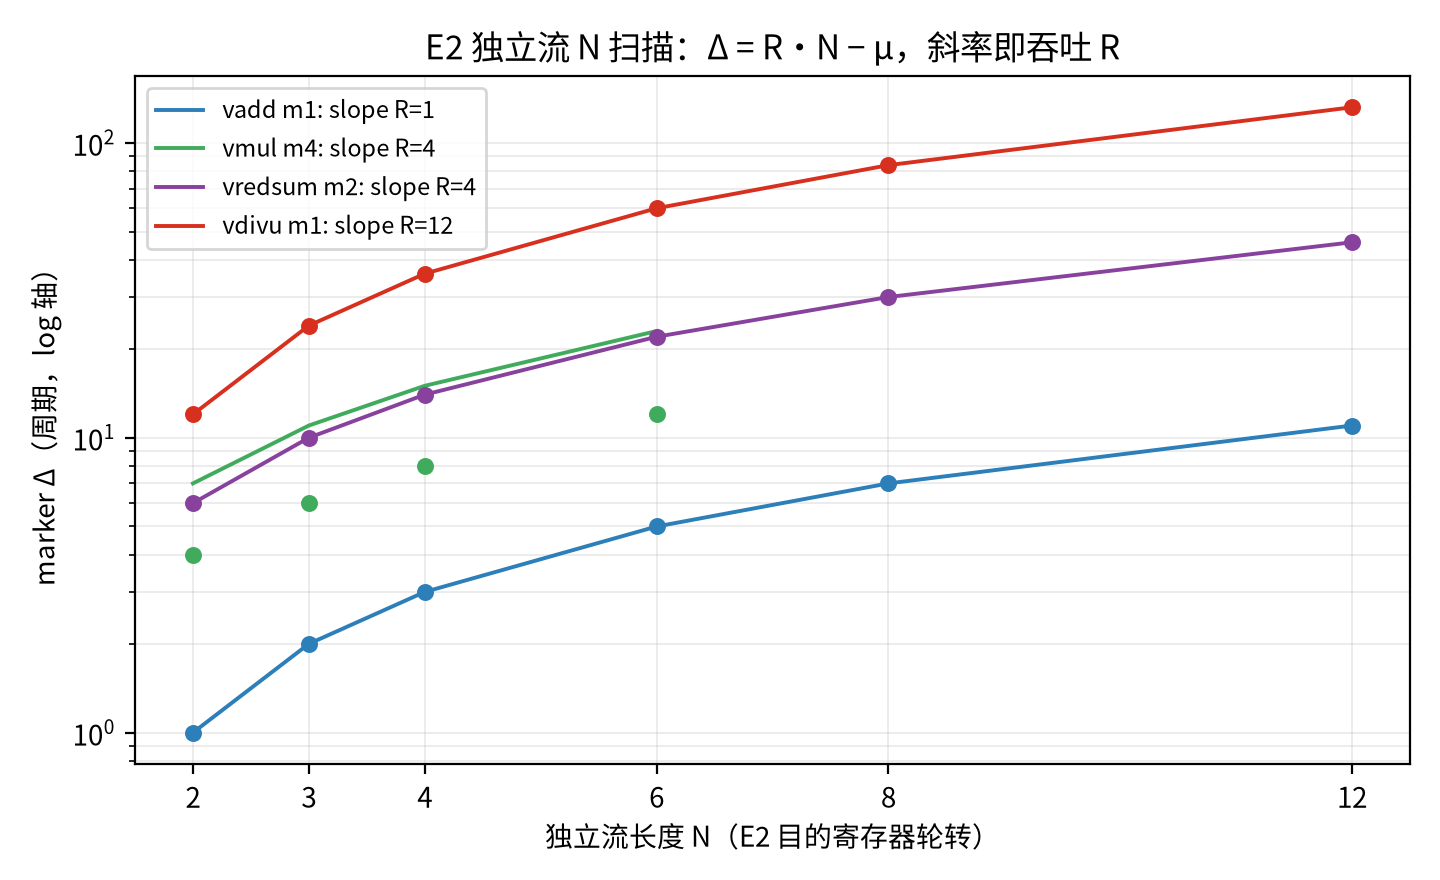
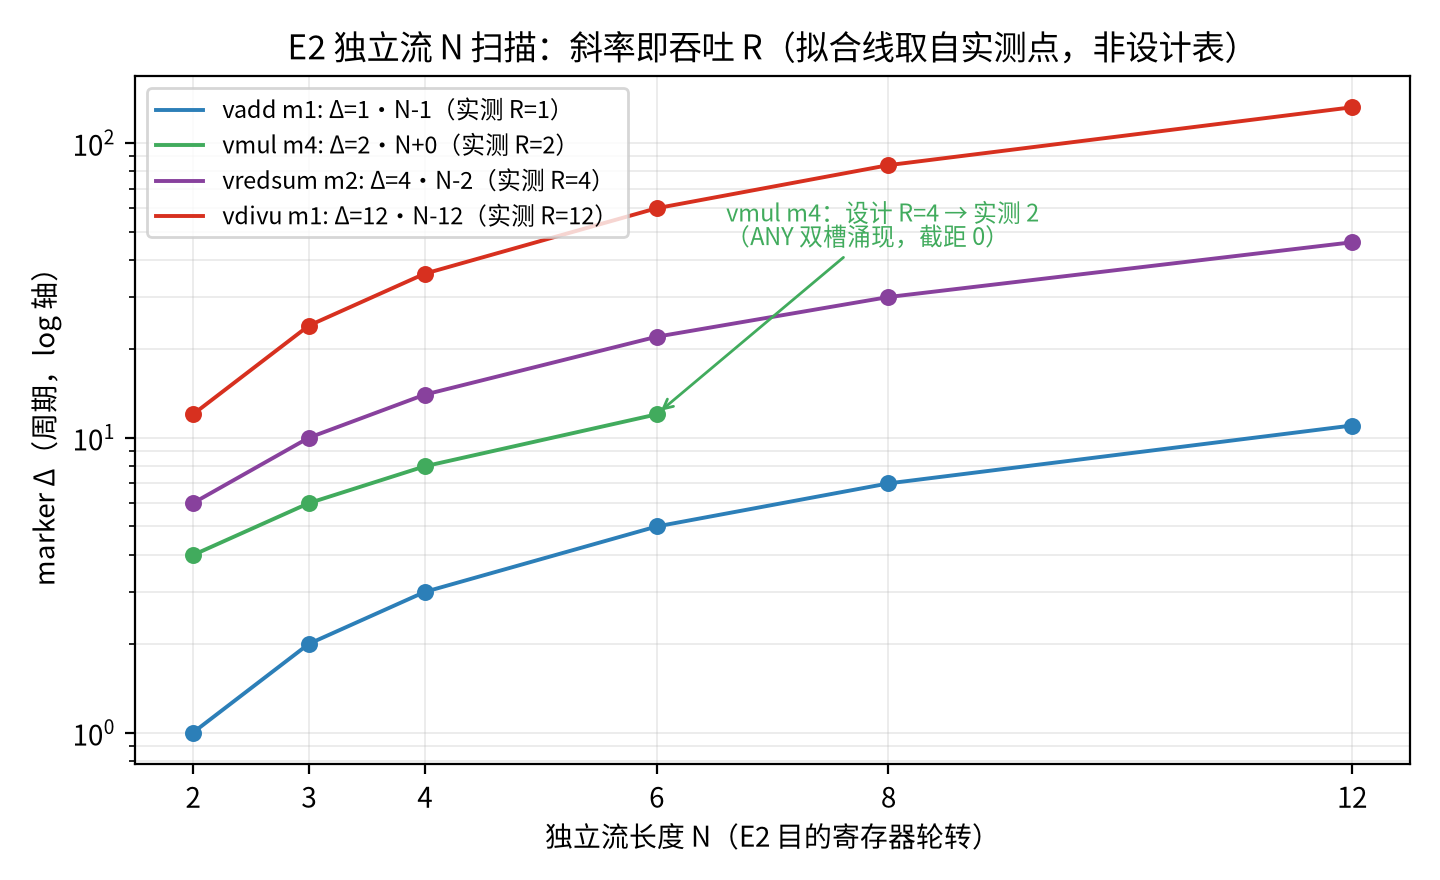
figure audit round: stream_nscan fitted lines now derived from MEASURED points (was design R -- vmul m4 line at slope 4 didn't touch its slope-2 points, same error class user caught in latency_m1); zero residuals verified for all 4 series; vmul emergent annotation added; matrix_heat title softened t

diff --git a/scripts/make_figs.py b/scripts/make_figs.py
@@ -60,18 +60,24 @@ fig, ax = plt.subplots(figsize=(7.2, 4.4), dpi=200)
 for instr, lm, c in SERIES:
     pts = stream_deltas(instr, lm)
     xs = sorted(pts)
-    R = m.R(instr, lm)
-    mu = m.mu(instr) if not m.is_nonpipelined(instr) else m.opLat(instr)
-    # measured R from slope for annotation honesty (matches design here)
-    fit = [R * n - mu for n in xs]
+    # fit from the MEASURED points themselves (two-point integer slope),
+    # never from the design table -- vmul m4 measures 2, not the design 4.
+    (x0, y0), (x1, y1) = (xs[0], pts[xs[0]]), (xs[-1], pts[xs[-1]])
+    R_fit = (y1 - y0) / (x1 - x0)
+    c_fit = y0 - R_fit * x0
+    fit = [R_fit * n + c_fit for n in xs]
     ax.scatter(xs, [pts[x] for x in xs], color=c, s=26, zorder=3)
     ax.plot(xs, fit, color=c, lw=1.4,
-            label=f'{LABEL[instr]} {lm}: slope R={R}')
+            label=f'{LABEL[instr]} {lm}: Δ={R_fit:g}·N{c_fit:+g}（实测 R={R_fit:g}）')
+i_vm = [s[0] for s in SERIES].index('vmul_vv')
+ax.annotate('vmul m4：设计 R=4 → 实测 2\n（ANY 双槽涌现，截距 0）',
+            (6, 12), xytext=(6.6, 45), fontsize=8.5, color='#41ab5d',
+            arrowprops=dict(arrowstyle='->', color='#41ab5d', lw=1))
 ax.set_yscale('log')
 ax.set_xticks((2, 3, 4, 6, 8, 12))
 ax.set_xlabel('独立流长度 N（E2 目的寄存器轮转）')
 ax.set_ylabel('marker Δ（周期，log 轴）')
-ax.set_title('E2 独立流 N 扫描：Δ = R·N − μ，斜率即吞吐 R')
+ax.set_title('E2 独立流 N 扫描：斜率即吞吐 R（拟合线取自实测点，非设计表）')
 ax.grid(True, which='both', alpha=.28, lw=.6)
 ax.legend(fontsize=8.5, loc='upper left')
 fig.tight_layout()
@@ -185,7 +191,7 @@ for yi in range(len(CONS)):
                     color='white' if v > np.nanmax(mat) * 0.55 else '#222')
 ax.set_xlabel('生产者（producer）')
 ax.set_ylabel('消费者（consumer）')
-ax.set_title('E4 归一化 RAW 矩阵（列基线 = vcpop 行）：同管簇低 / 跨管簇高')
+ax.set_title('E4 归一化 RAW 矩阵（列基线 = vcpop 行）：同管普遍更低 / 跨管普遍更高（双簇趋势）')
 fig.colorbar(im, ax=ax, label='有效 RAW（周期）', shrink=.85)
 fig.tight_layout()
 fig.savefig(os.path.join(OUT, 'matrix_heat.png'))
